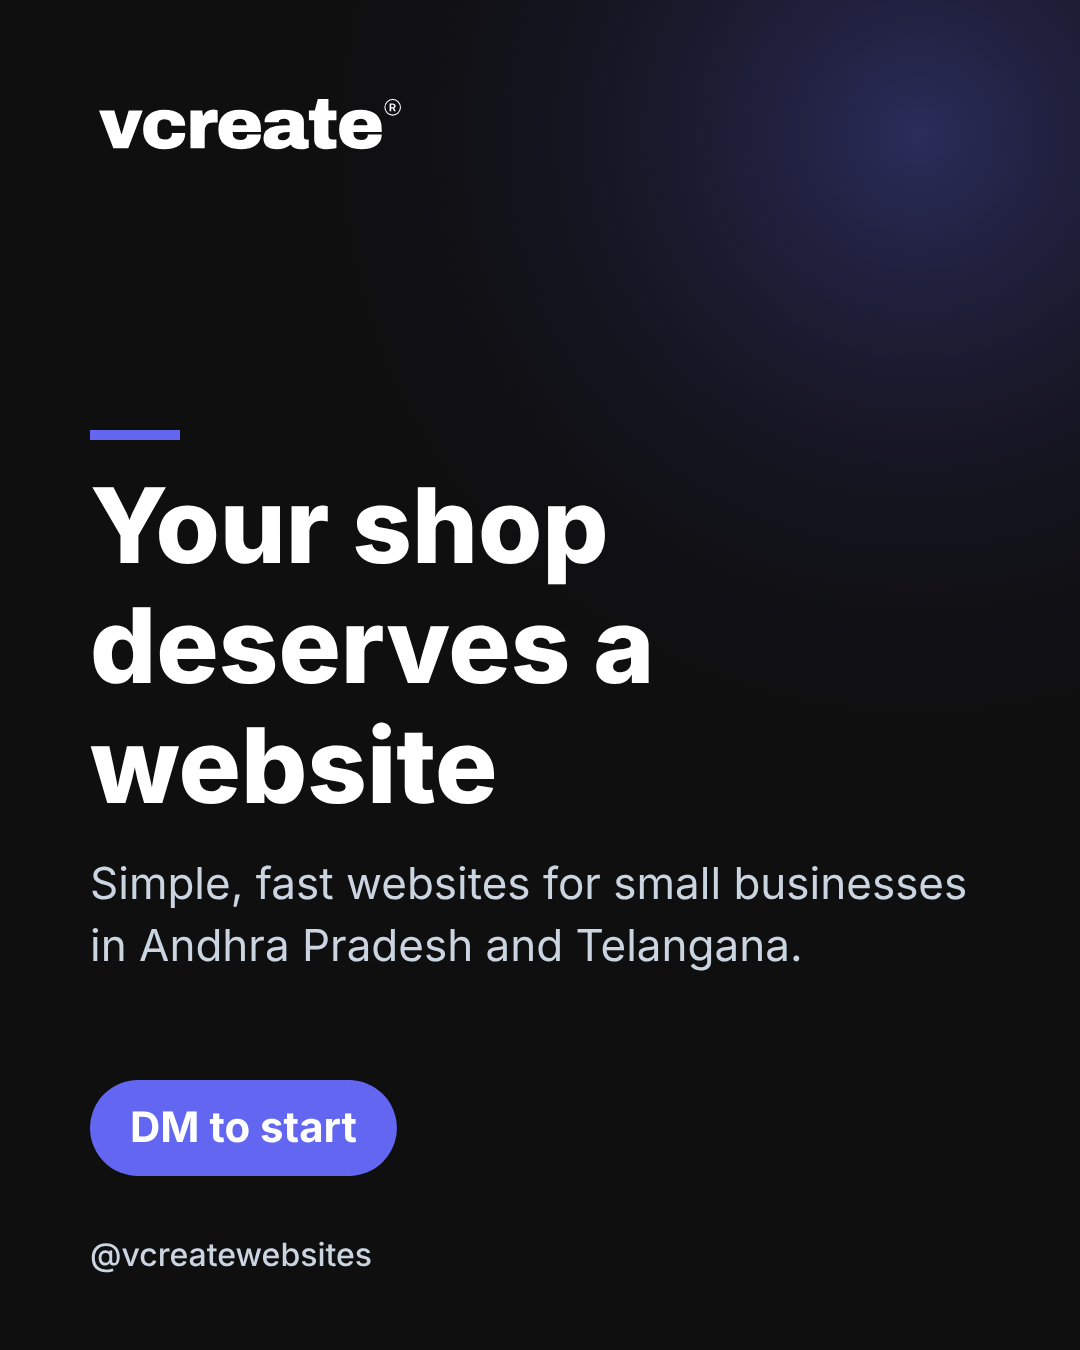
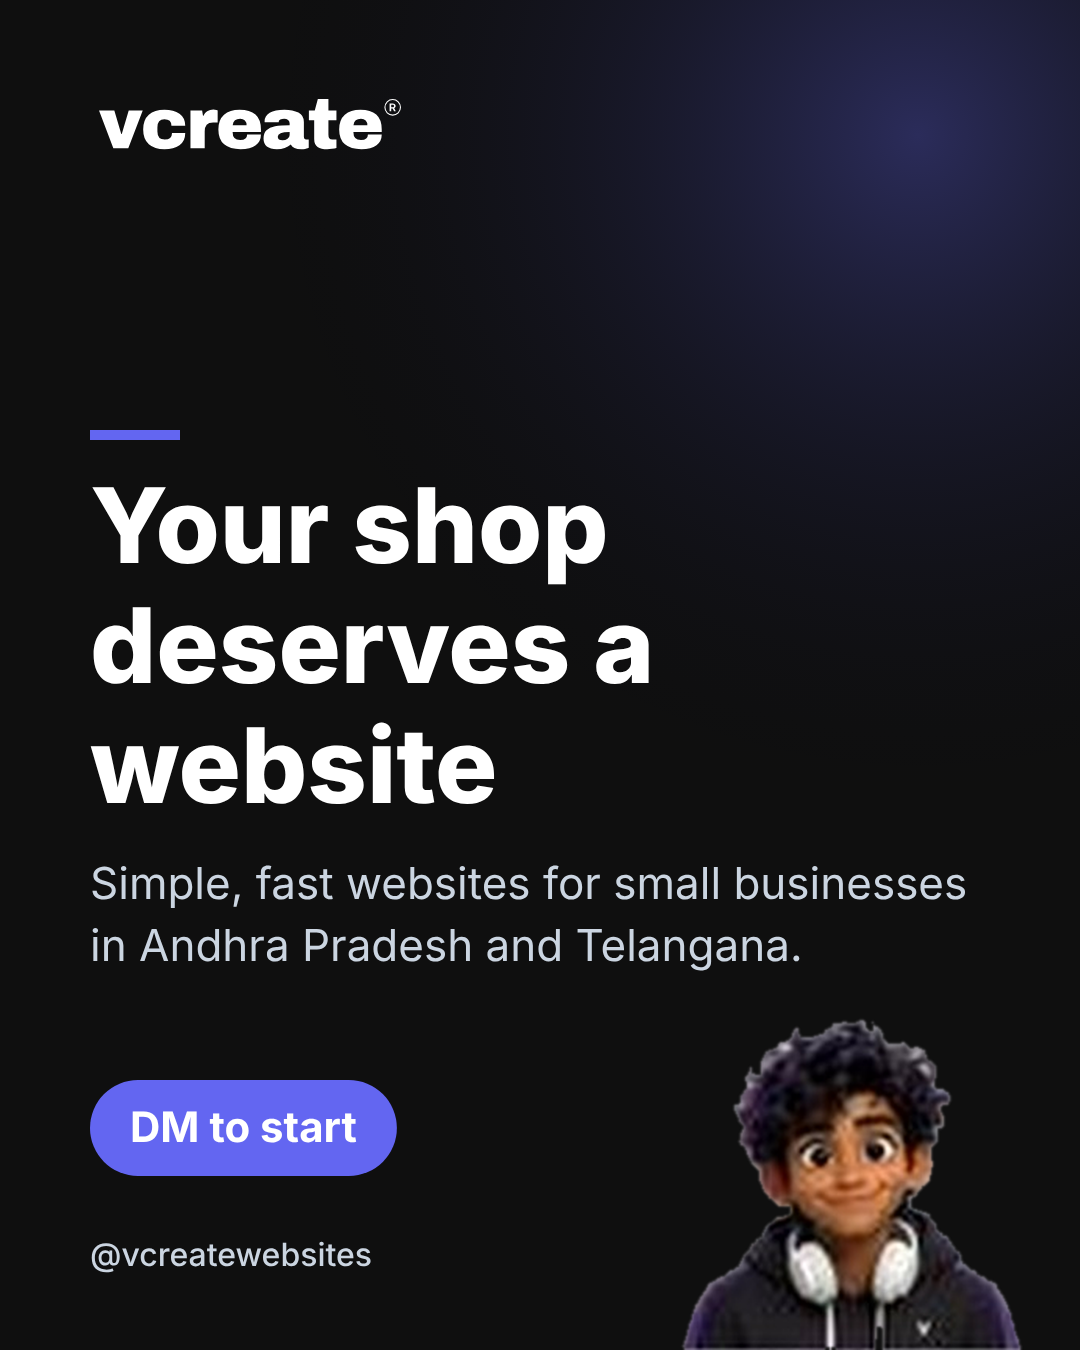
Put the V character on every poster
Claude-Session: https://claude.ai/code/session_011d8G3RTsZhSHHy4BQ6JHza

Changed region(s): [[0.6111, 0.7467, 0.9472, 1.0]]

diff --git a/ai.js b/ai.js
@@ -125,6 +125,8 @@
     ctx.fillStyle = t.accent; ctx.beginPath(); ctx.roundRect(M, H - 270, cw, 96, 48); ctx.fill();
     ctx.fillStyle = t.accent === "#ffffff" ? "#4f46e5" : "#fff"; ctx.fillText(p.cta, M + 40, H - 270 + 28);
     ctx.fillStyle = t.sub; ctx.font = "500 32px Inter, Arial, sans-serif"; ctx.fillText("@vcreatewebsites", M, H - 110);
+    // V, the vcreate character, appears on every poster
+    try { const v = await loadImg("assets/v/v-face.png"); const vw = 400, vh = vw * (v.naturalHeight / v.naturalWidth); ctx.drawImage(v, W - vw - 30, H - vh, vw, vh); } catch {}
   }
 
   // ---------- home view ----------

diff --git a/tools/poster.js b/tools/poster.js
@@ -1,5 +1,5 @@
 // Usage: node tools/poster.js '{"headline":"...","subline":"...","cta":"...","theme":"dark|light|indigo"}' assets/posters/name.png
-// Renders a 1080x1350 poster with the OFFICIAL logo file (never drawn). Needs playwright (global install ok).
+// V (assets/v/v-face.png) is drawn on every poster. Renders a 1080x1350 poster with the OFFICIAL logo file (never drawn). Needs playwright (global install ok).
 const path = require("path"), fs = require("fs"), http = require("http");
 const { chromium } = require(process.env.PLAYWRIGHT_PATH || "playwright");
 (async () => {
